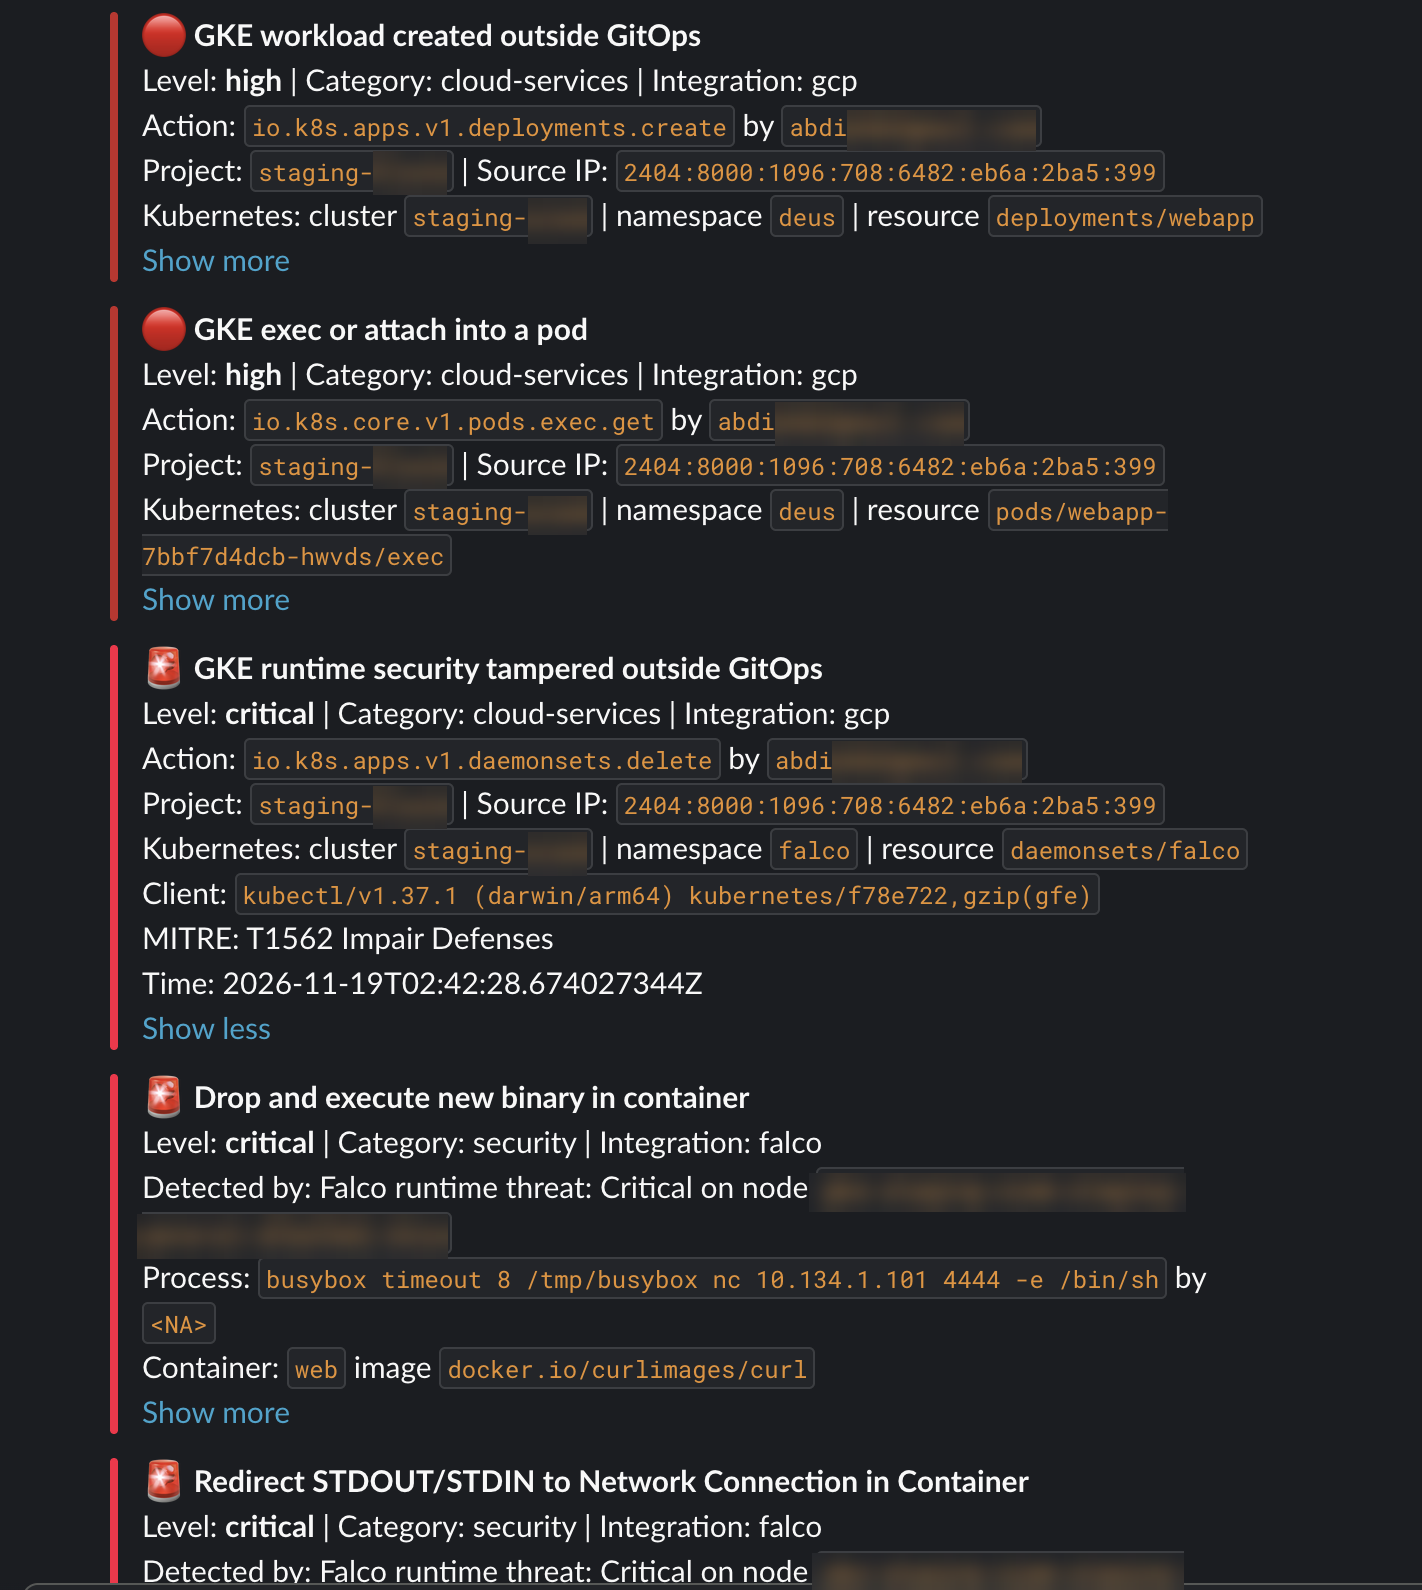
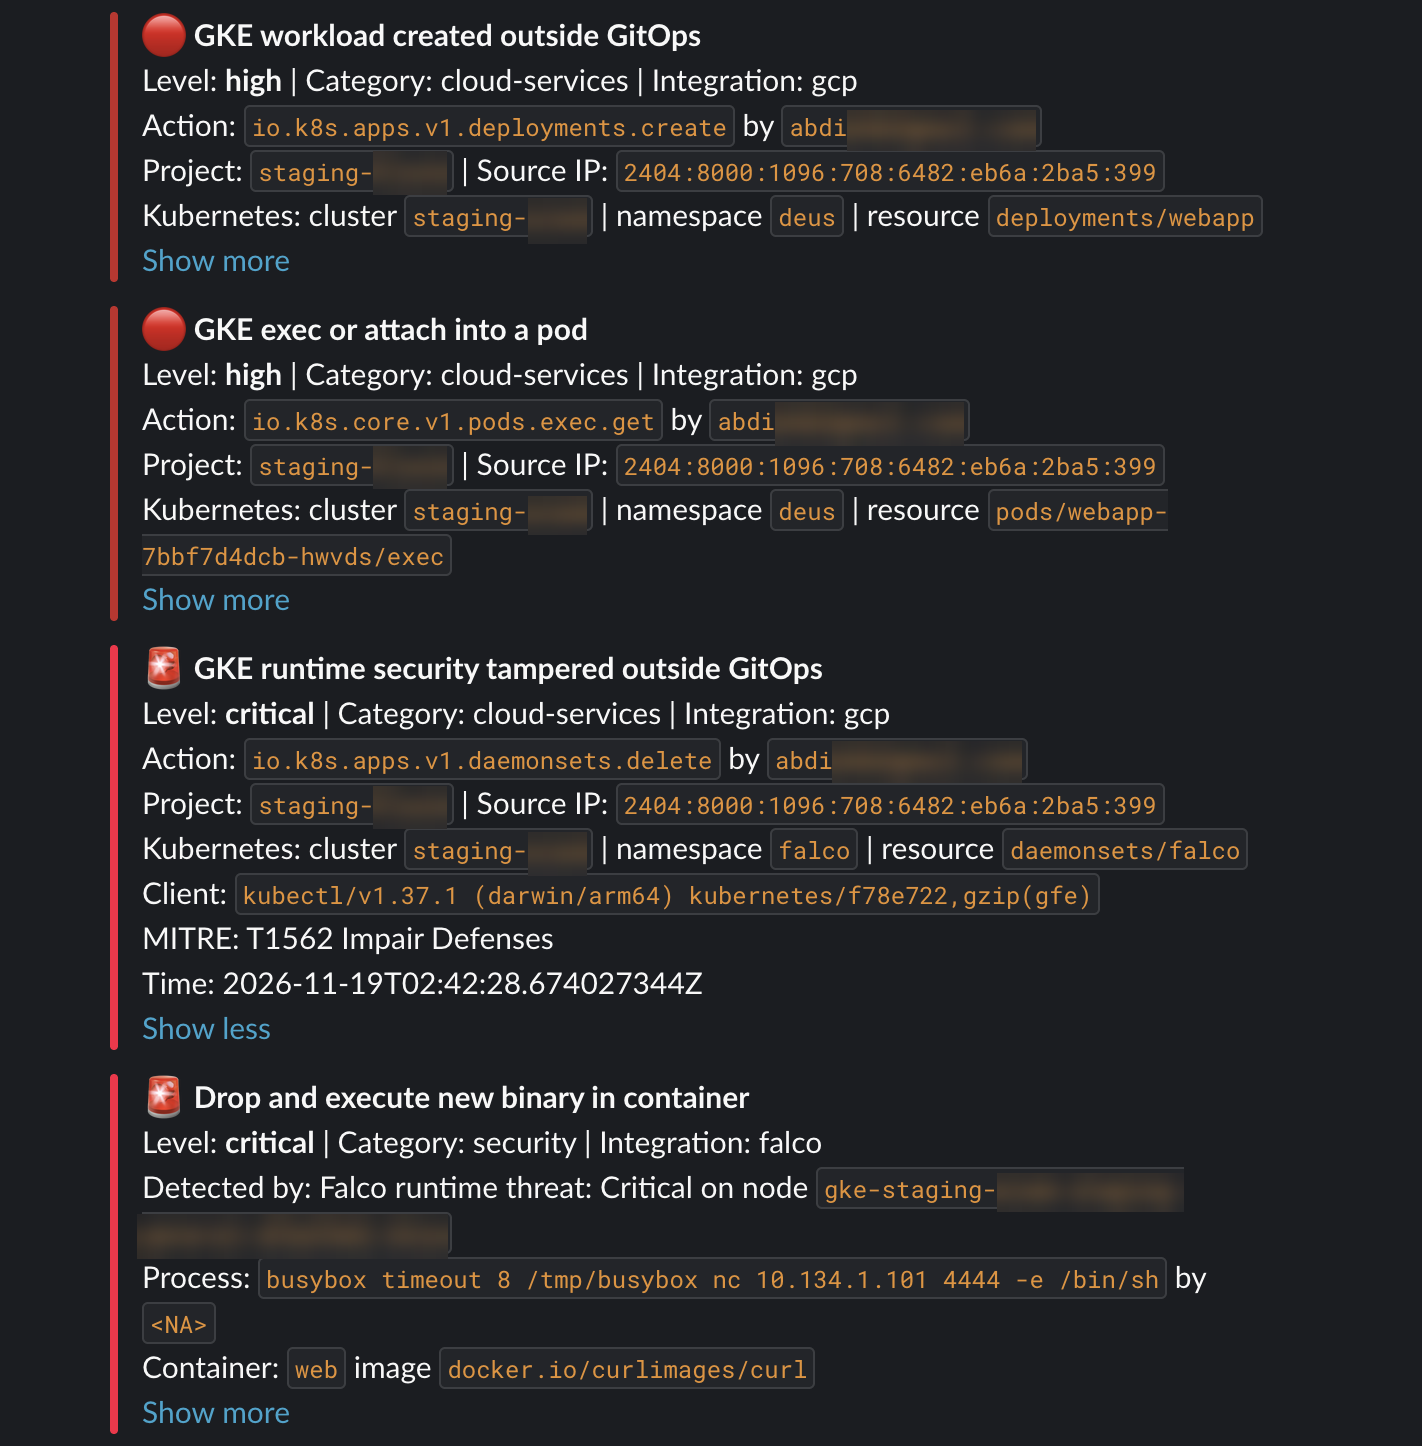
README: a Slack alert screenshot under Highlights, the rest folded under Alerts, cropped to drop duplicate and cut-off cards

Changed region(s): [[0.0, 0.0, 1.0, 1.0]]

diff --git a/README.md b/README.md
@@ -25,6 +25,8 @@ service account key exists anywhere: Google Cloud access goes through **GKE Work
 - **Alerts from Wazuh only**, to Slack, colored by level and titled with what happened, for cloud, Kubernetes
   and Falco findings alike, plus alerts on the health of the SIEM itself.
 
+![Slack alerts: a Deployment created outside GitOps, exec into a pod, the Falco DaemonSet deleted, and a reverse shell from a dropped binary](docs/screenshots/slack-gke-gitops-and-falco-critical.png)
+
 ## Topology
 
 ```mermaid
@@ -129,14 +131,14 @@ from. A NetworkPolicy opens the metadata server (`169.254.169.254`, ports 80 and
 
 A Google Cloud API call reaches Slack in about three minutes. Findings of level low and medium stay in the dashboard.
 
-Findings as they arrive in Slack: Kubernetes API actions from the GKE audit log, and Falco detections from inside
-containers, each with who did it, where, and the MITRE technique.
+<details>
+<summary>More Slack alerts</summary>
 
-![Exec into a pod, a pod created outside GitOps, and a sensitive file read](docs/screenshots/slack-gke-audit-and-falco.png)
-
-![A Deployment created outside GitOps, the Falco DaemonSet deleted, and a reverse shell from a dropped binary](docs/screenshots/slack-gke-gitops-and-falco-critical.png)
+![A container reading /etc/shadow, with the full Falco output](docs/screenshots/slack-falco-read-sensitive-file.png)
 
 ![A container reading the node service account token from the metadata server, and an untrusted image started](docs/screenshots/slack-falco-metadata-server.png)
+
+</details>
 
 ## Kubernetes security
 
